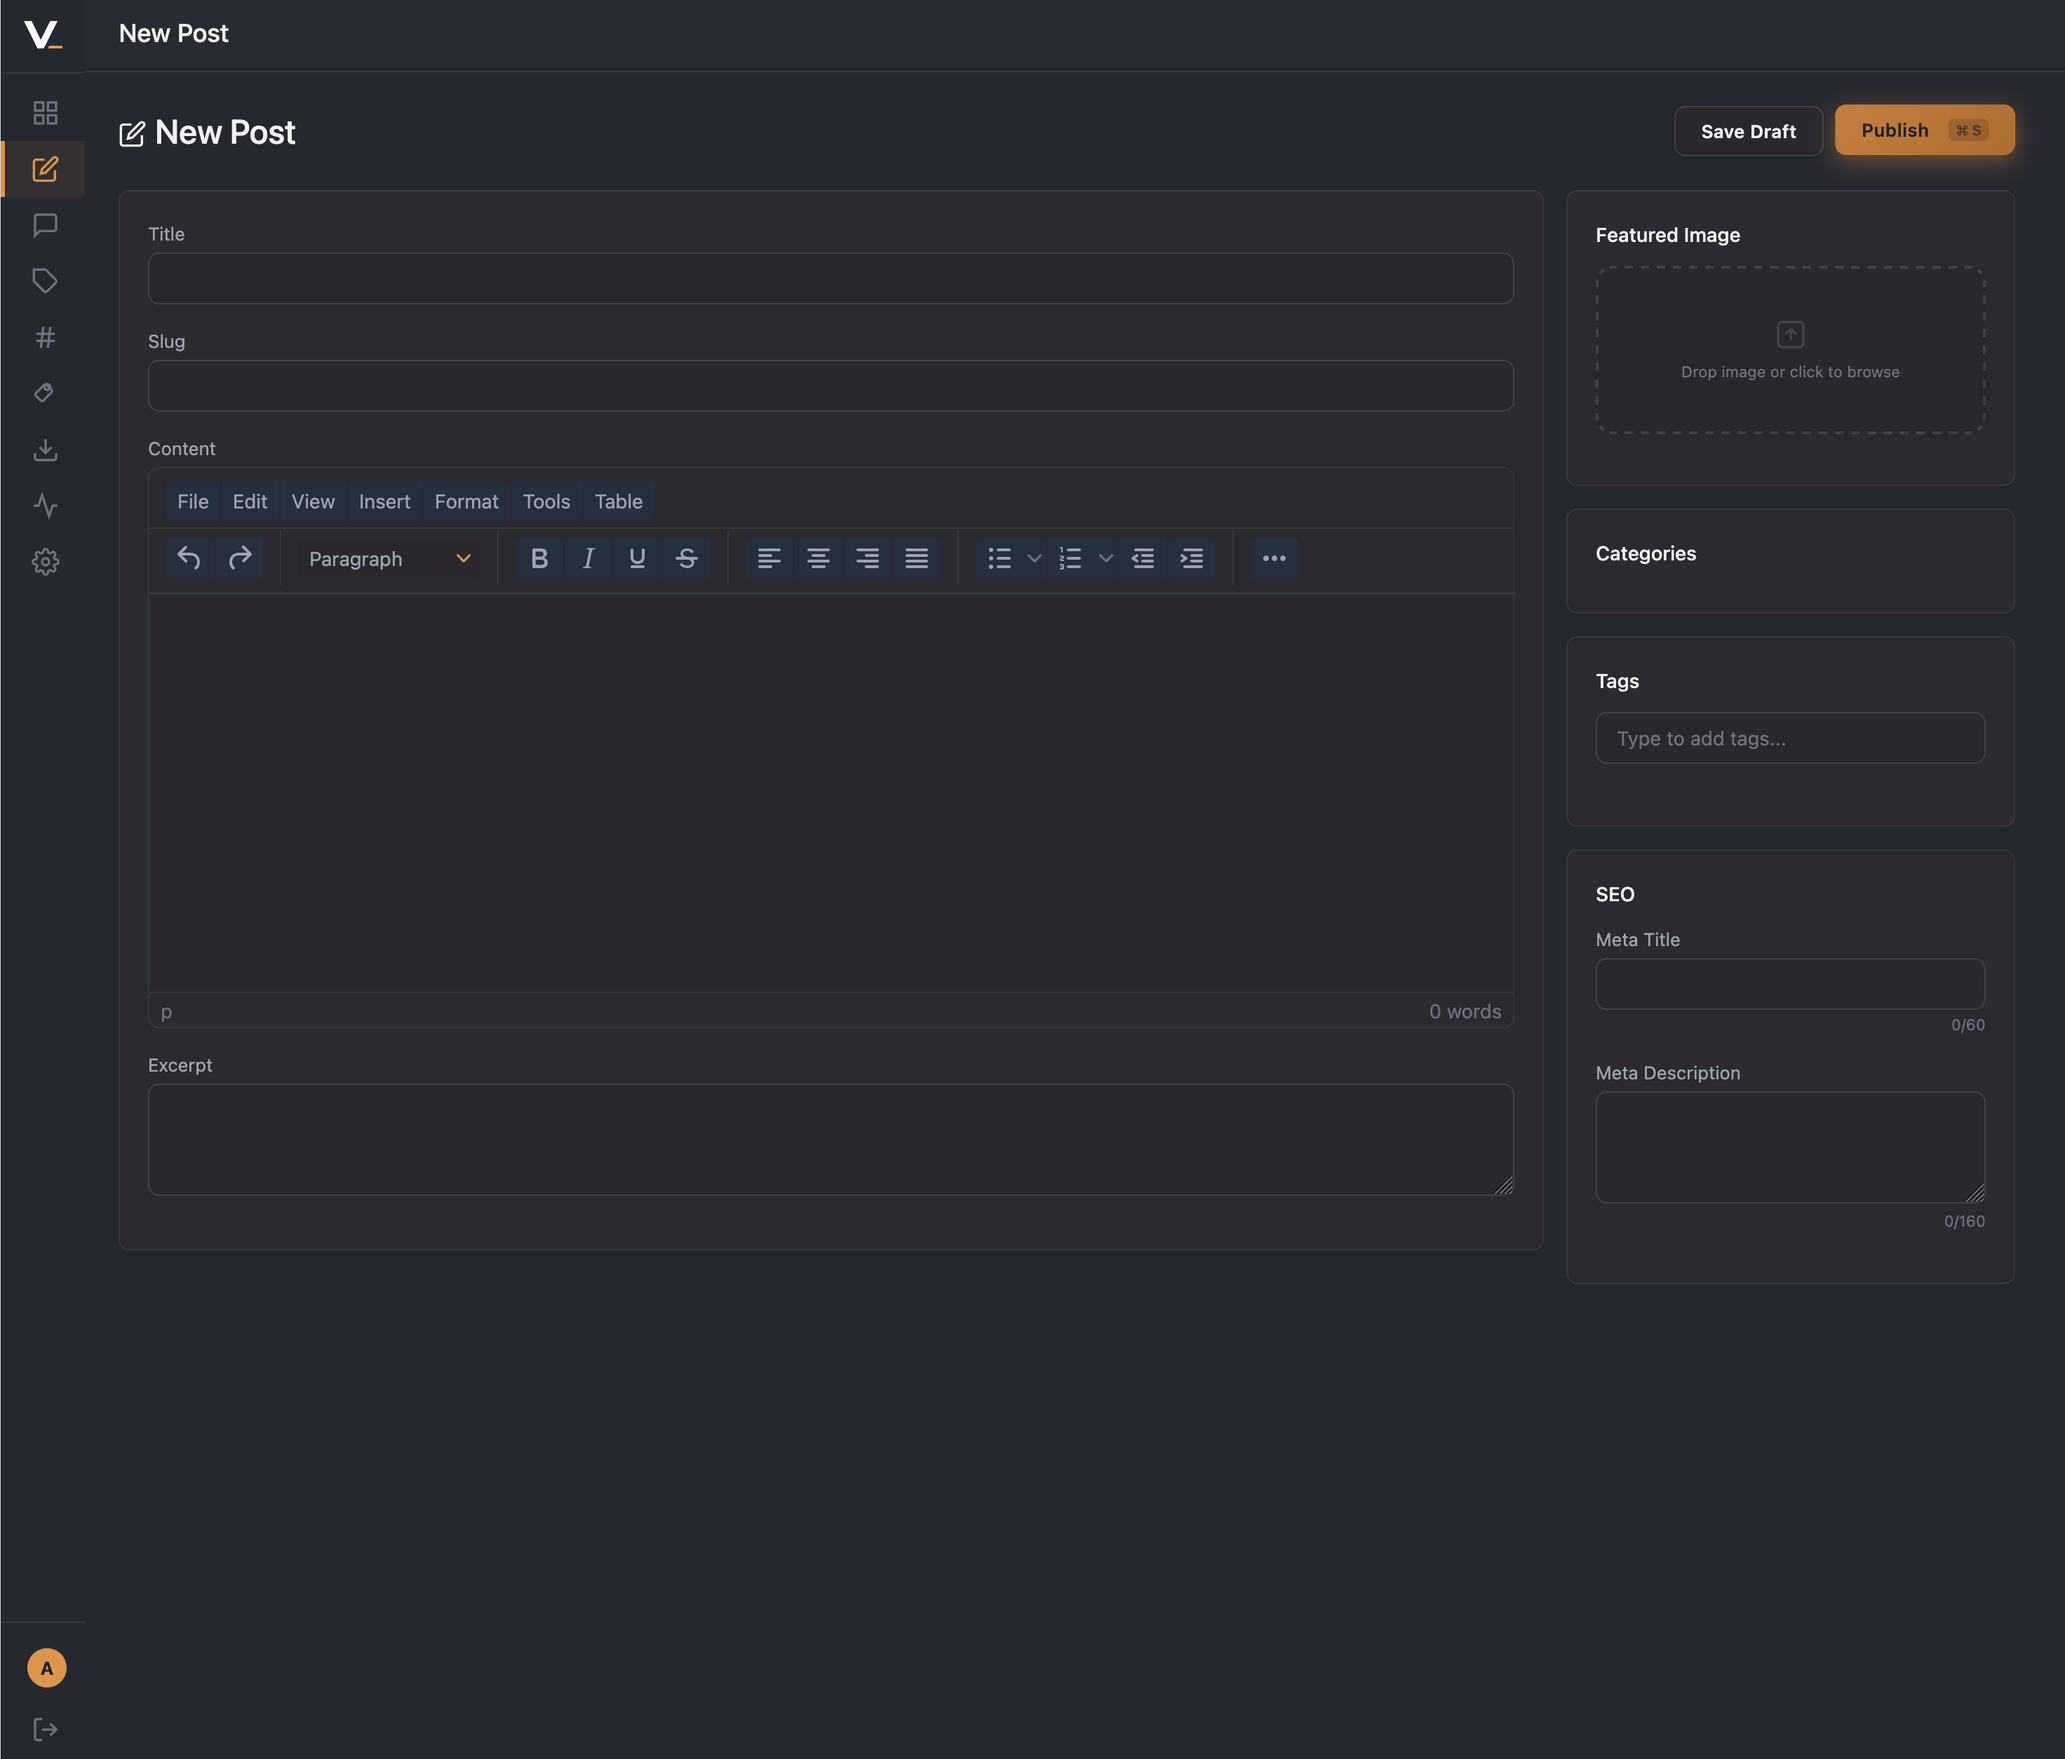
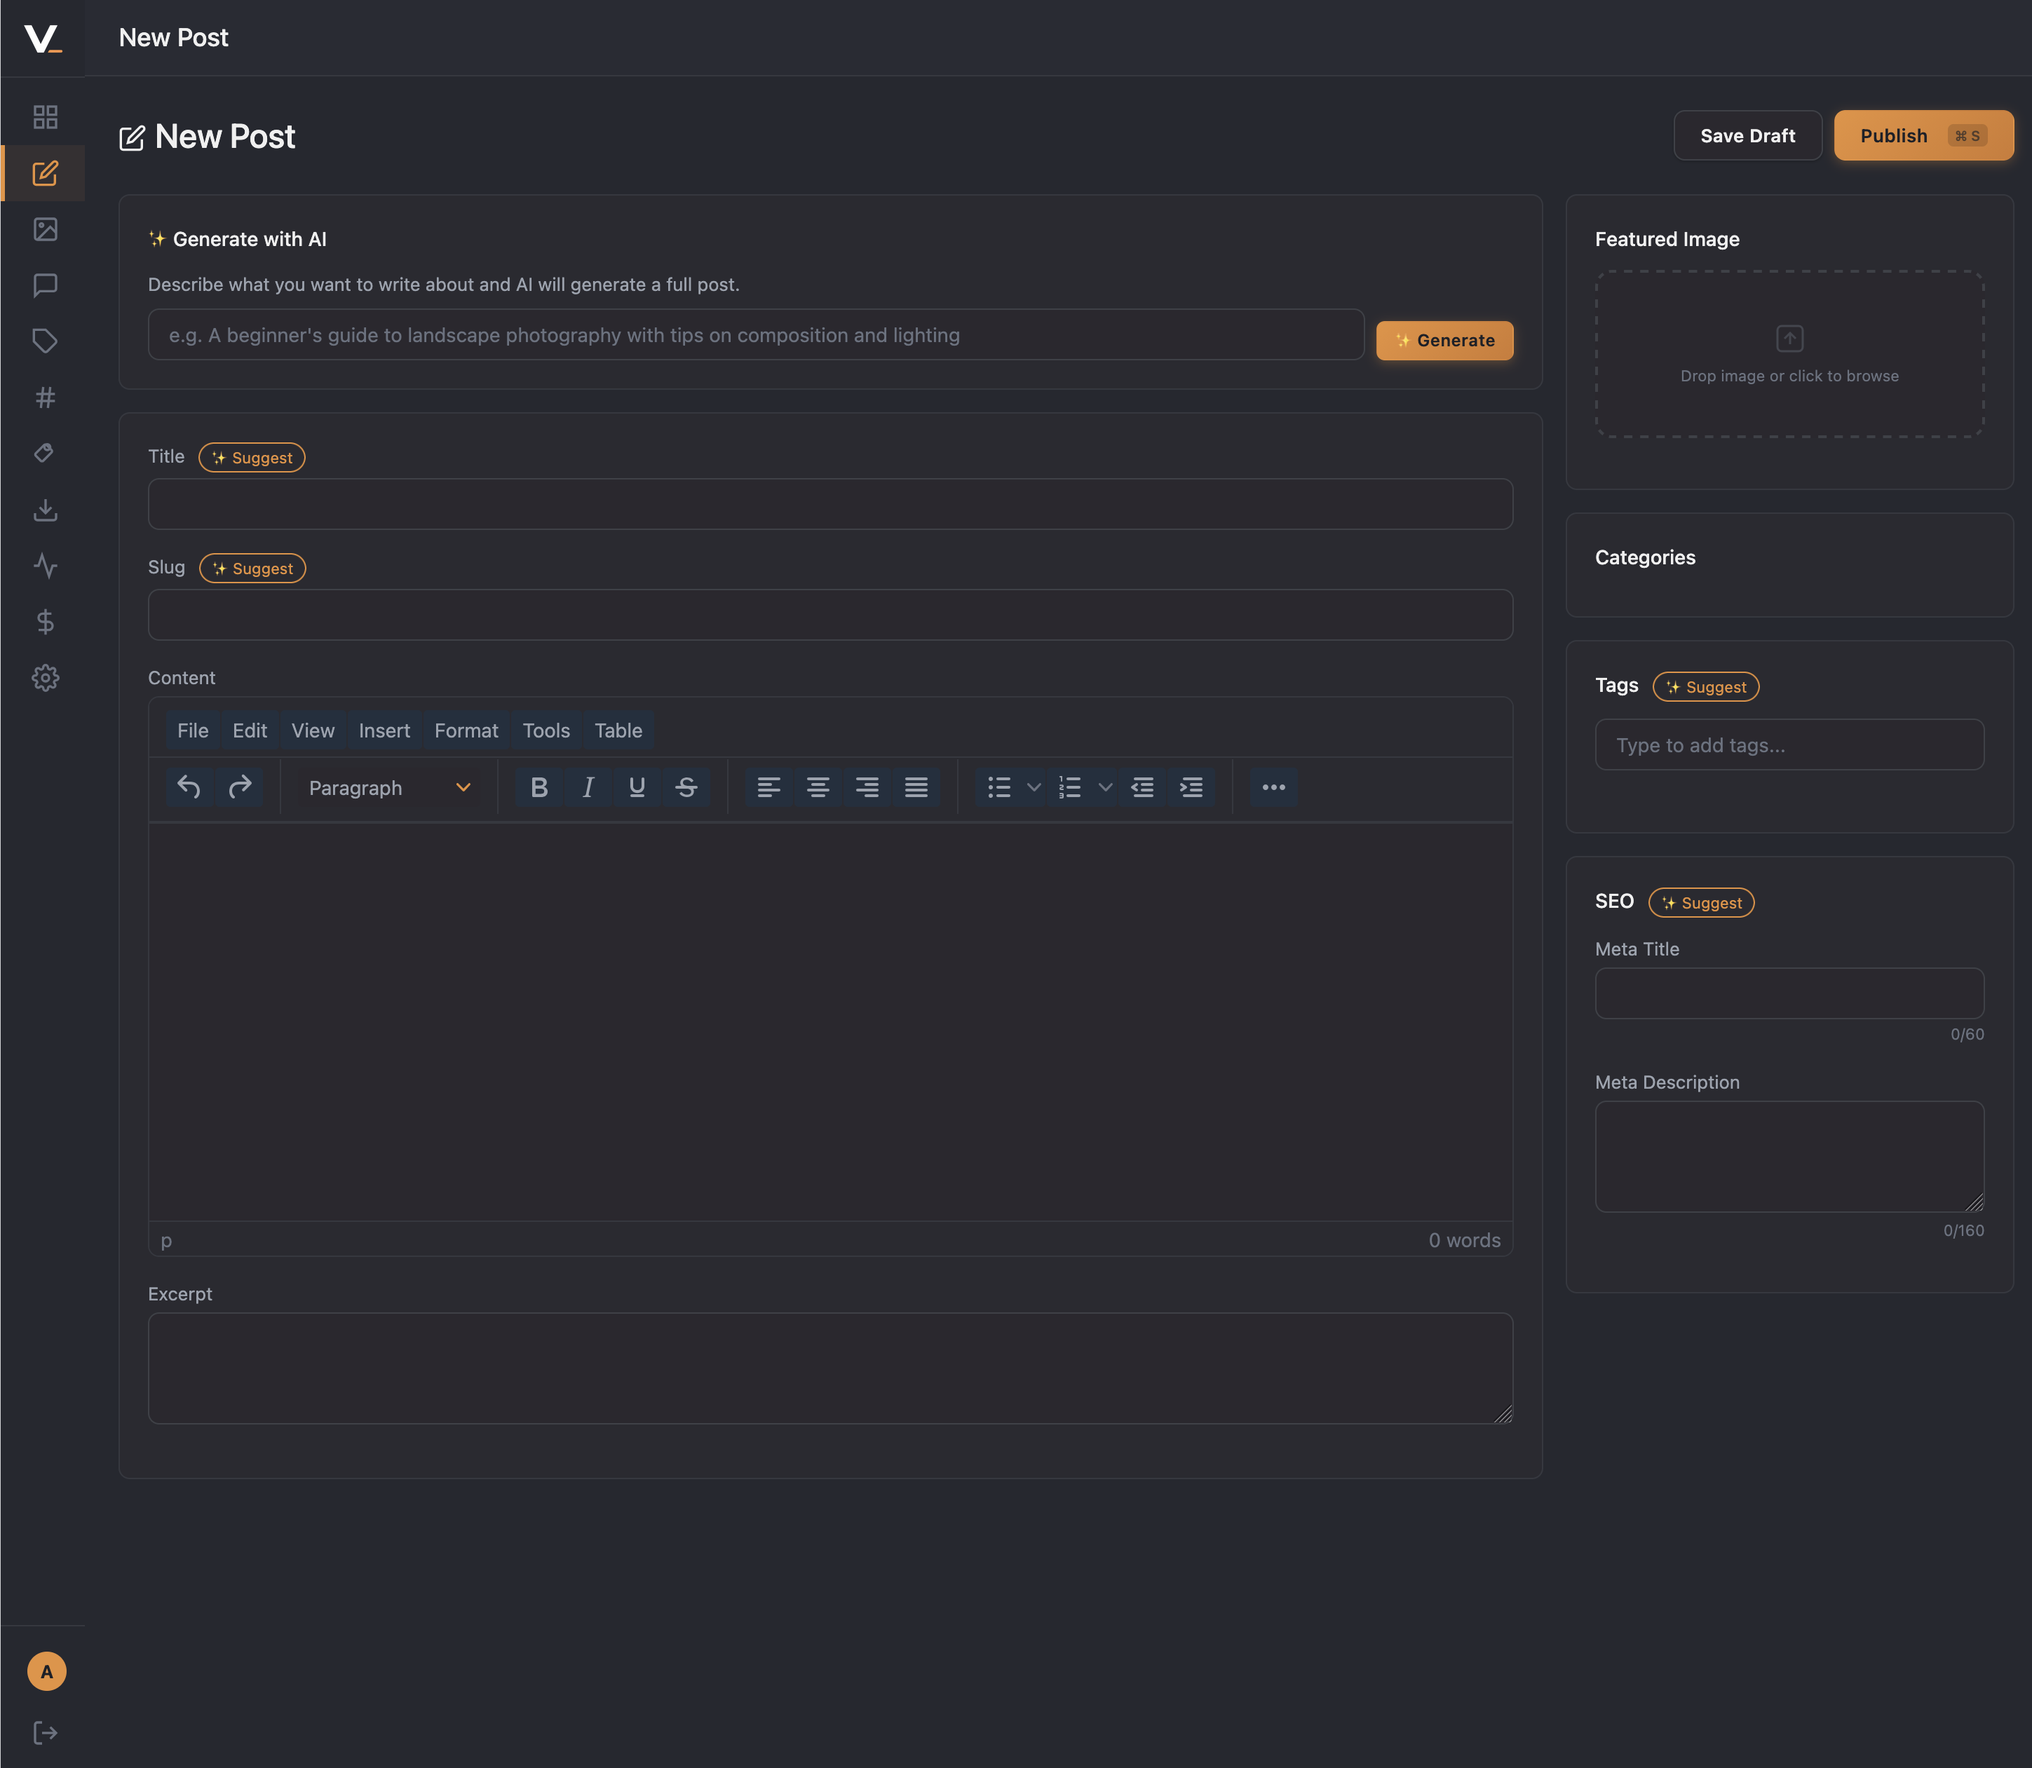
docs

diff --git a/README.md b/README.md
@@ -387,12 +387,17 @@ velocty/
 - Design management: create, edit, duplicate, delete, activate, preview
 - Custom components for content placeholders
 
-### Phase 4 — AI
+### Phase 4 — AI ✅
 
-- Pluggable LLM connector with failover chain (Local → Ollama → OpenAI → Gemini → Cloudflare)
-- SEO suggestions: meta title, description, tags, categories, alt text, slug
-- Blog post generation from description
-- Inline assist: expand, rewrite, summarise, continue
+- Pluggable LLM connector with failover chain (Ollama → OpenAI → Gemini → Cloudflare Workers AI)
+- Provider-agnostic `ai::complete()` — automatic failover to next enabled provider on failure
+- SEO suggestions: ✨ buttons on Slug, Tags, Meta Title, Meta Description fields
+- Blog post generation from description (title, HTML content, excerpt, tags — all in one shot)
+- TinyMCE inline assist: select text → ✨ AI menu → Expand, Rewrite, Summarise, Continue, More Formal, More Casual
+- AI features conditionally shown only when at least one provider is enabled
+- All AI responses parsed with robust JSON extraction (handles markdown fences, leading text)
+- Settings UI: per-provider configuration, draggable failover chain ordering, model download for local LLM
+- Zero hardcoded API keys — all credentials stored in settings DB
 
 ---
 
